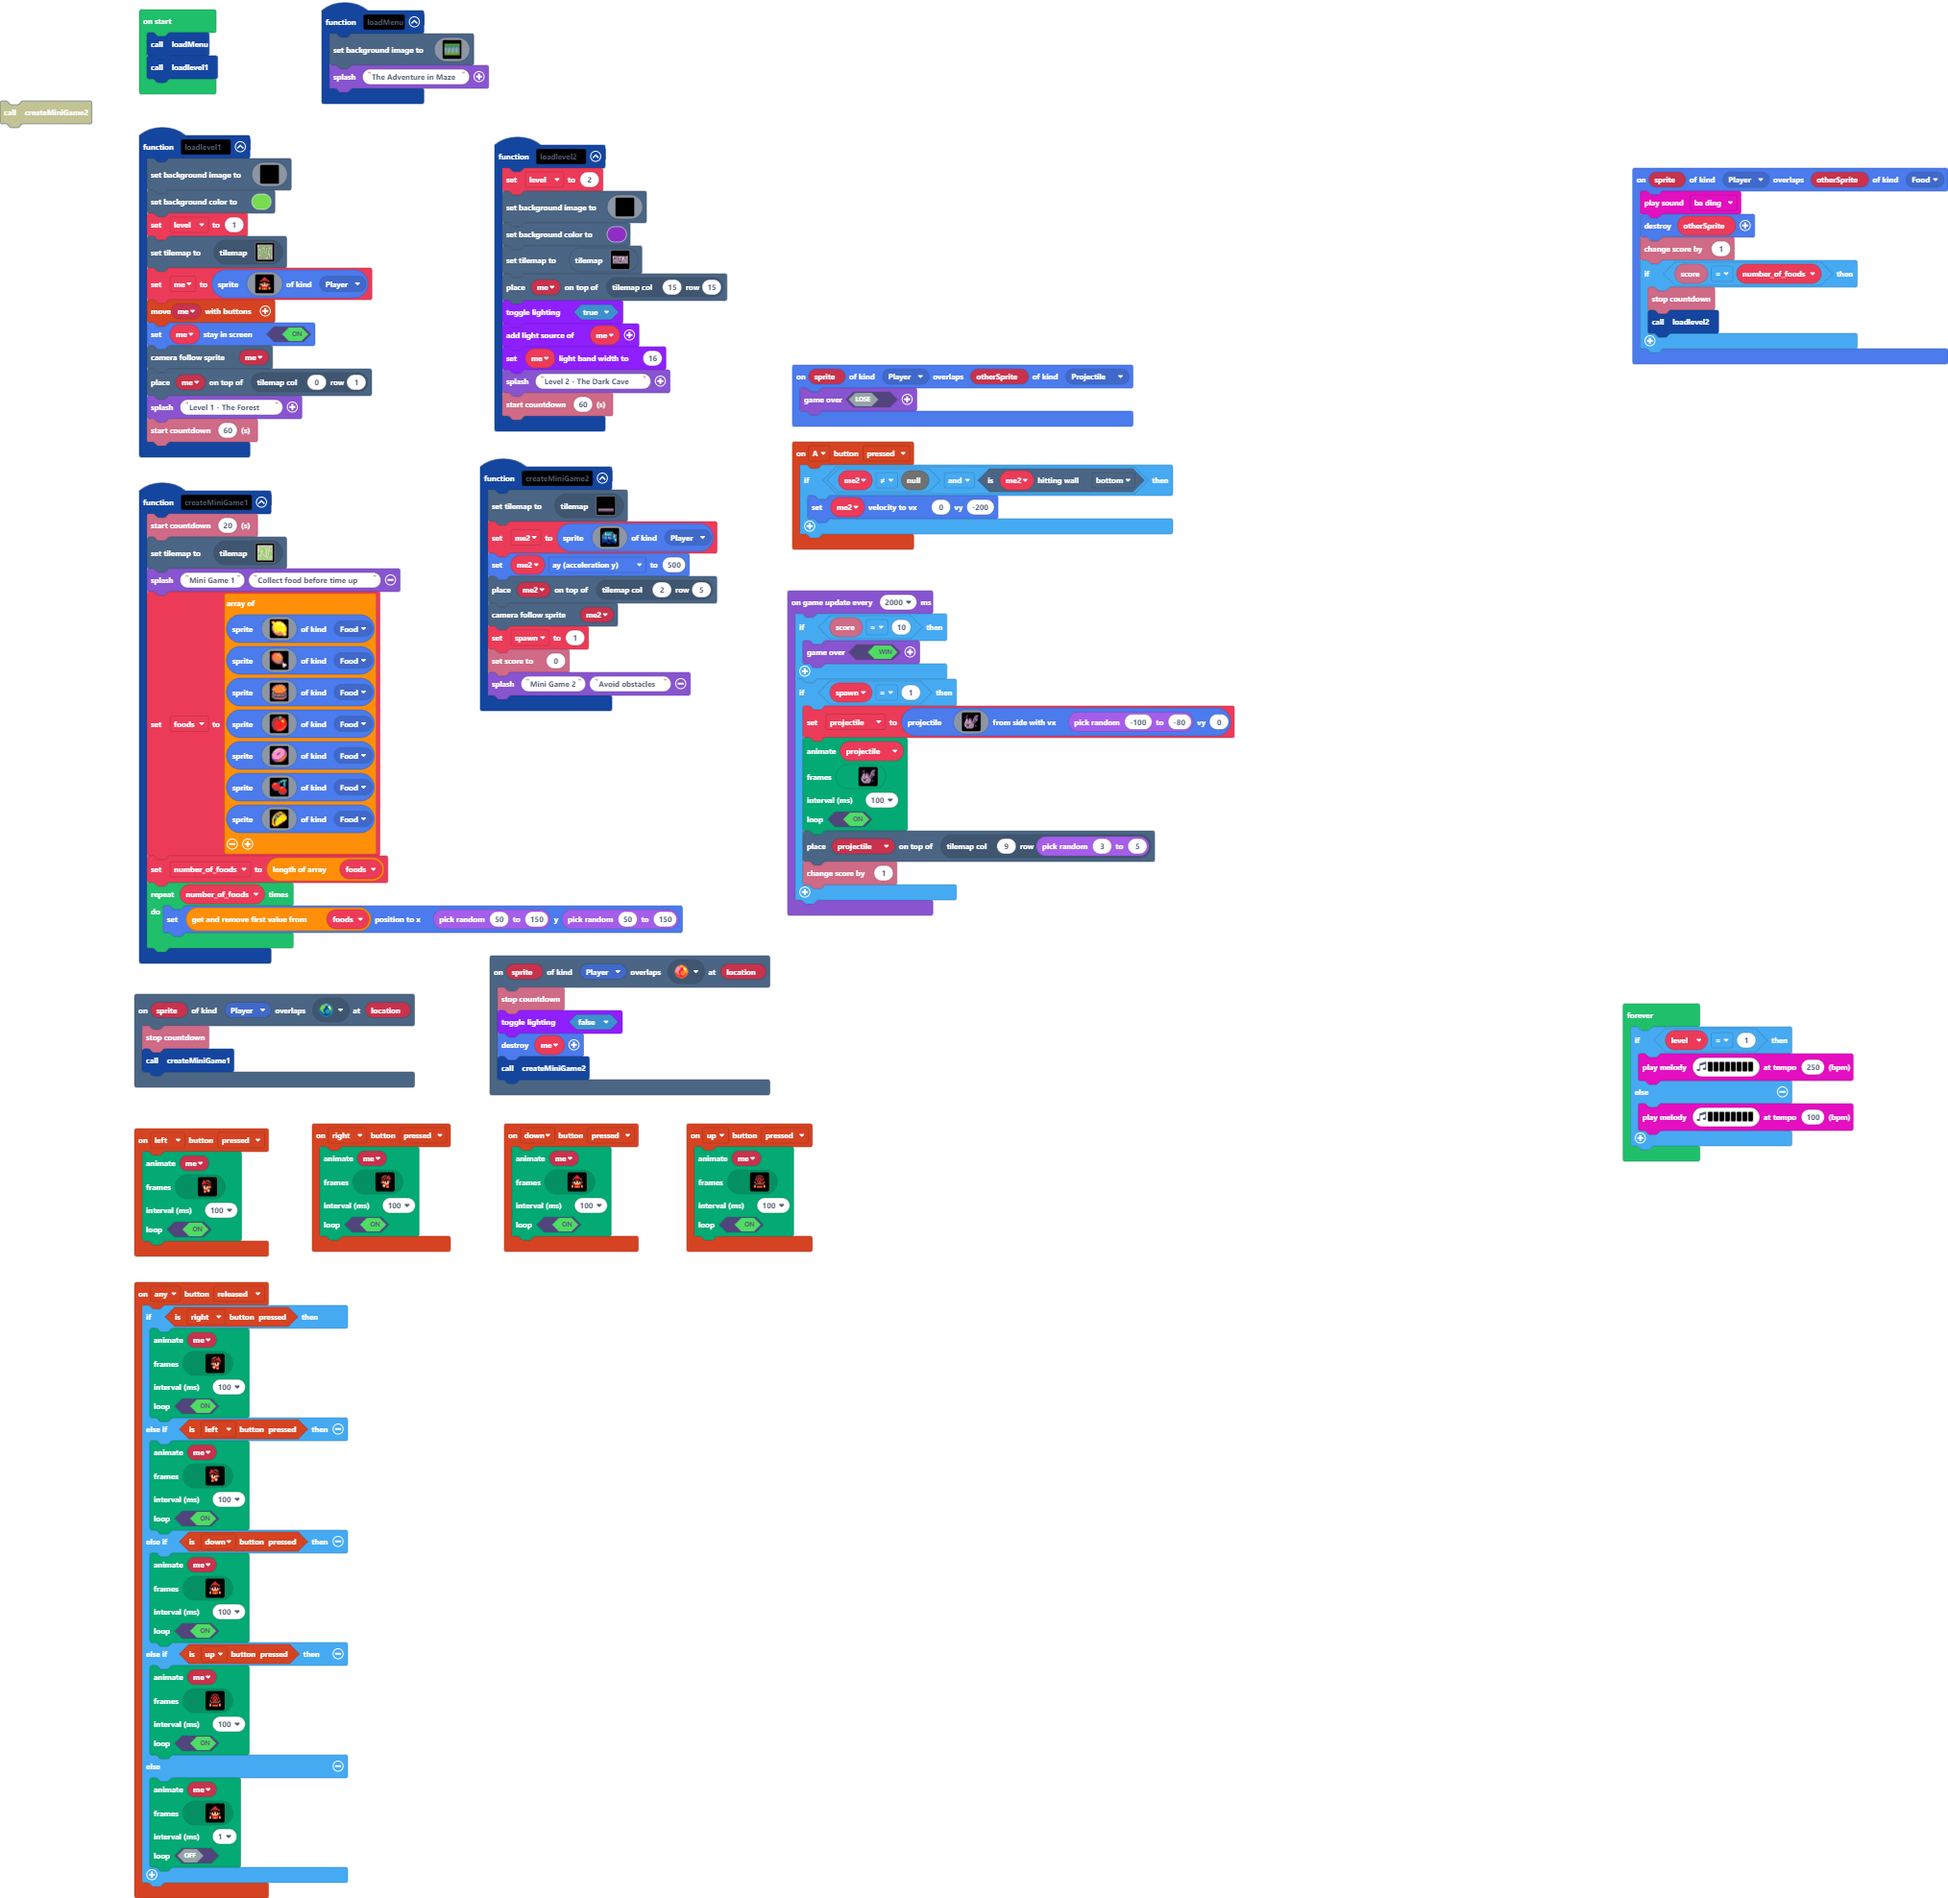
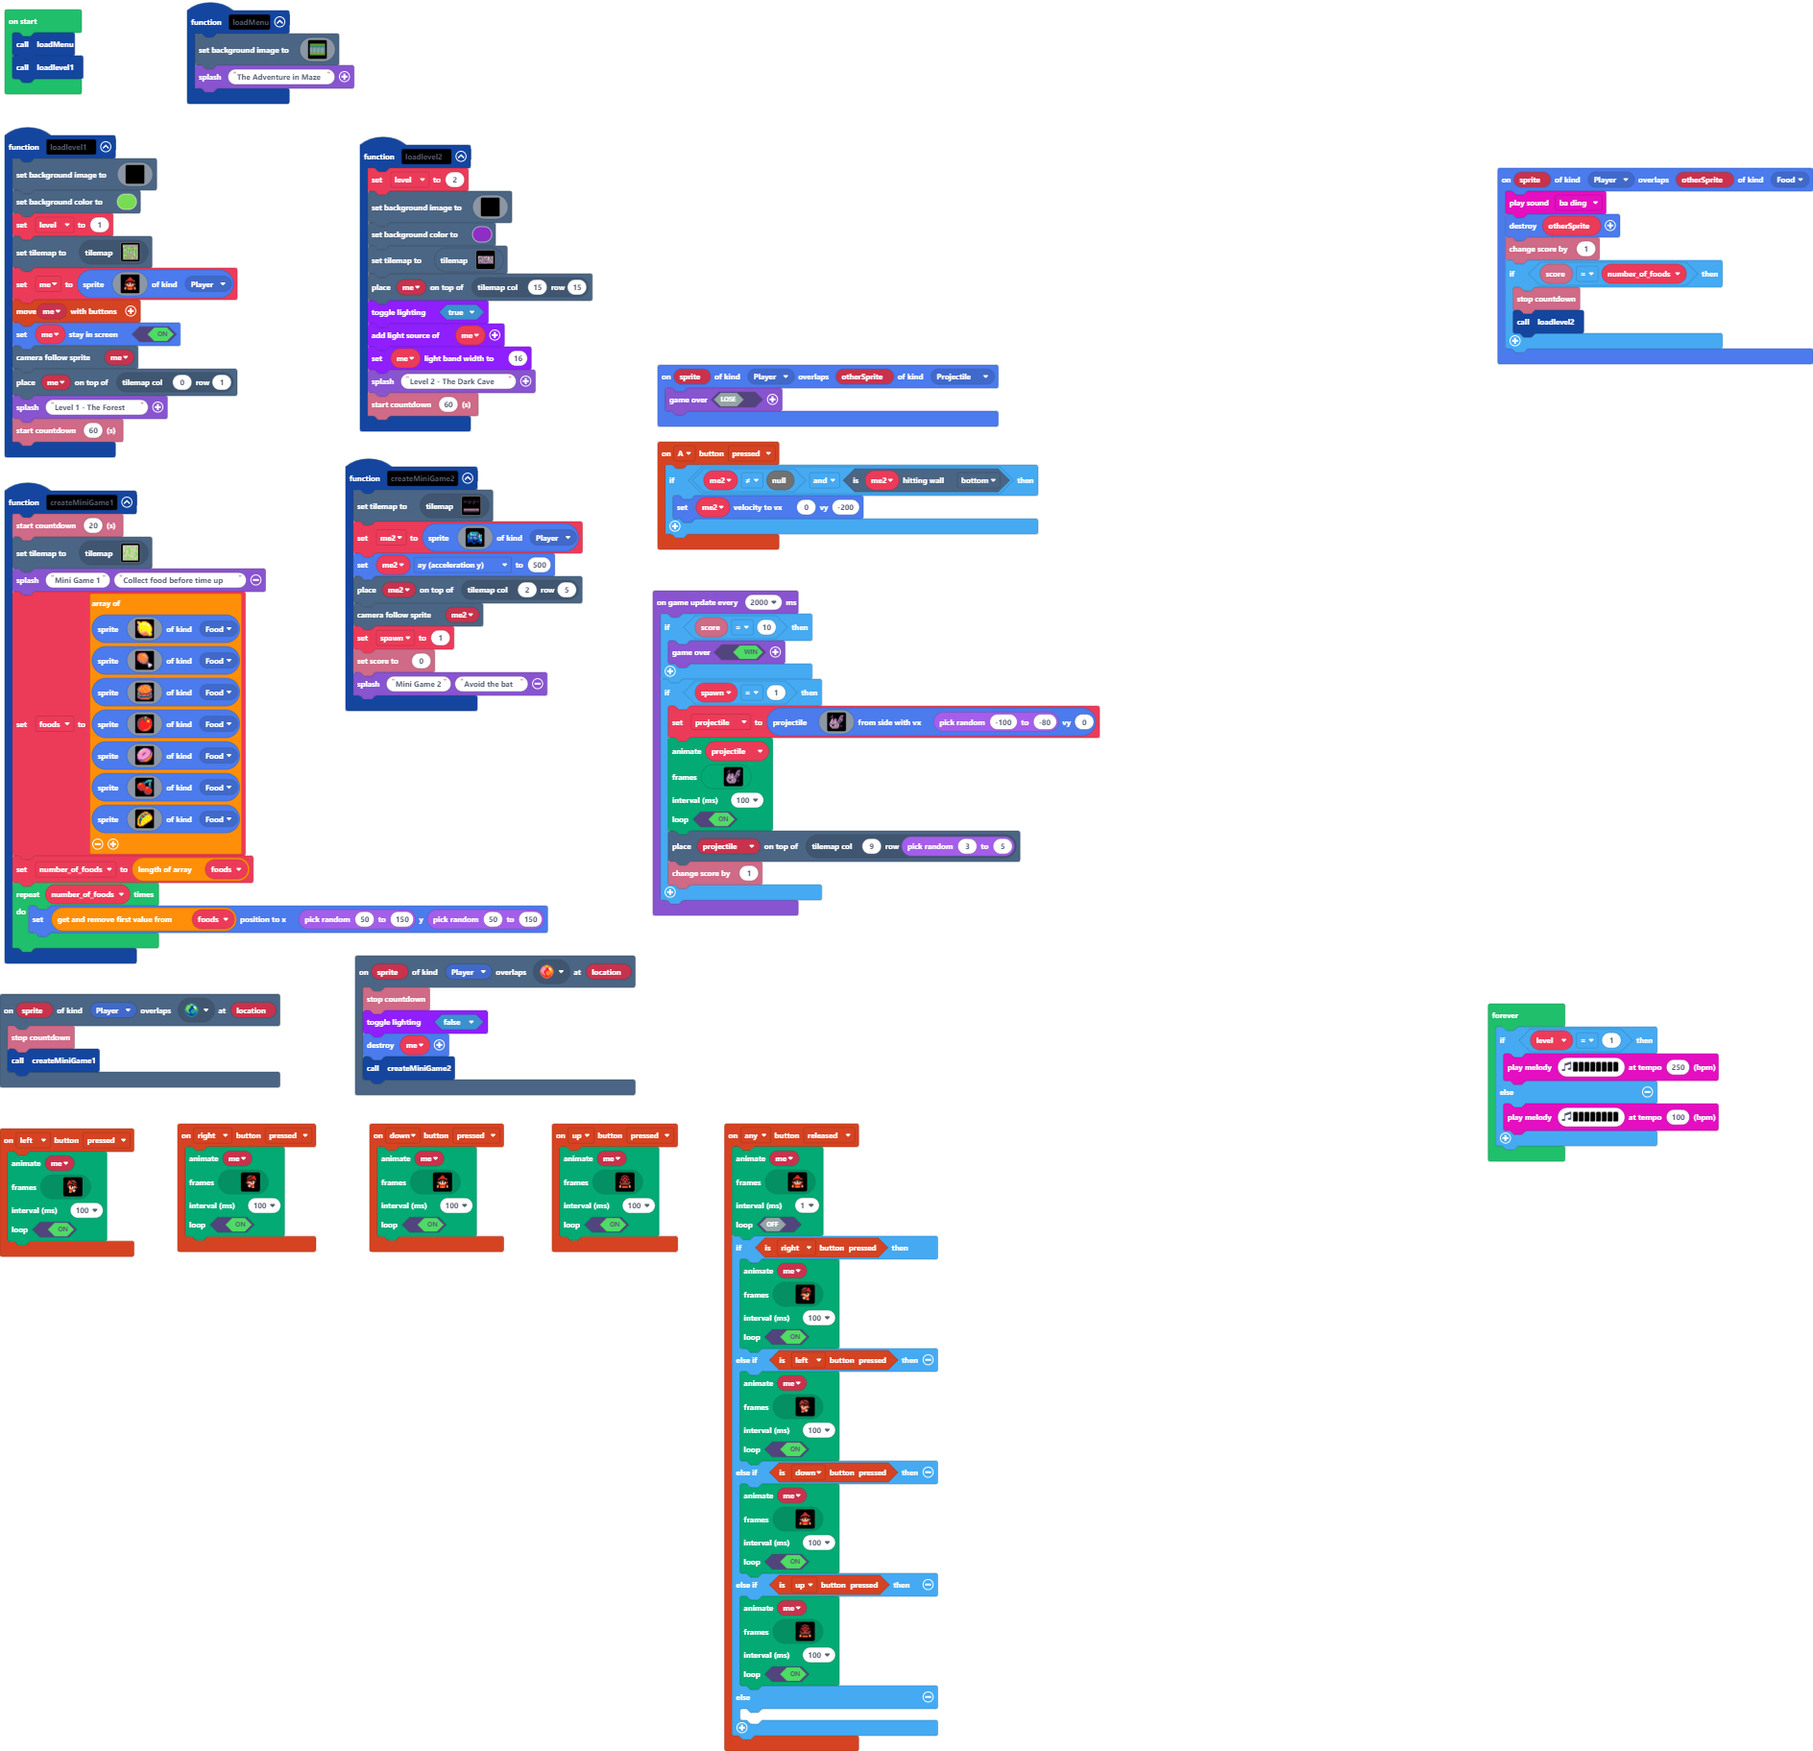
Update

Changed region(s): [[0.0, 0.0, 0.6562, 1.0], [0.8125, 0.0614, 1.0, 0.215], [0.8125, 0.5222, 0.9688, 0.6758]]

diff --git a/tilemap.g.ts b/tilemap.g.ts
@@ -3,6 +3,10 @@ namespace myTiles {
     //% fixedInstance jres blockIdentity=images._tile
     export const transparency16 = image.ofBuffer(hex``);
     //% fixedInstance jres blockIdentity=images._tile
+    export const tile2 = image.ofBuffer(hex``);
+    //% fixedInstance jres blockIdentity=images._tile
+    export const tile3 = image.ofBuffer(hex``);
+    //% fixedInstance jres blockIdentity=images._tile
     export const tile1 = image.ofBuffer(hex``);
 
     helpers._registerFactory("tilemap", function(name: string) {
@@ -45,25 +49,6 @@ namespace myTiles {
 . . . . . . . . . . . . . . . . 
 . . . . . . . . . . . . . . . . 
 `, [myTiles.transparency16], TileScale.Sixteen);
-            case "level1":
-            case "level1":return tiles.createTilemap(hex`1000100006080606080608060607060606070607020401010401010201050102010105060201080607080606070806080708080806010704010402040605080402020206060406060604040106020804010805070702020208040804060506070408010606040401060106040604070401060408070406040704060507050602060601060601060204020605020206040108010806050608070606080706070105070106070401040401010401010402020804060802050108060807060607060206010807020605050405050104050601080206080108060706060806080207040701060604010104070104010202060408020306060806060806070606060608060706`, img`
-2 2 2 2 2 2 2 2 2 2 2 2 2 2 2 2 
-. . . . . . . . . . . . . . . 2 
-. . 2 2 2 2 2 2 2 2 2 2 2 2 2 2 
-2 . 2 . . . . . 2 . 2 . . . . 2 
-2 . 2 2 2 . . . 2 . 2 . . 2 . 2 
-2 . . . 2 . 2 . 2 . 2 2 . 2 . 2 
-2 . . . 2 . 2 . 2 . 2 . . 2 . 2 
-2 . 2 . 2 . 2 . 2 . 2 . 2 2 . 2 
-2 . 2 . . . 2 . . . 2 . . 2 . 2 
-2 . 2 2 2 2 2 2 2 2 2 . . 2 . 2 
-2 . . . . . . . . . . . . 2 . 2 
-2 . . . 2 2 2 2 2 2 2 2 . 2 . 2 
-2 . 2 . . . . . . . . 2 . 2 . 2 
-2 . 2 2 2 2 2 2 2 2 . 2 . 2 . 2 
-2 . . . . 2 . . . . . 2 . 2 . . 
-2 2 2 2 2 2 2 2 2 2 2 2 2 2 2 2 
-`, [myTiles.transparency16,sprites.castle.tileGrass2,sprites.castle.tilePath5,sprites.dungeon.collectibleBlueCrystal,sprites.castle.tileGrass1,sprites.castle.tileGrass3,sprites.castle.rock0,sprites.castle.rock1,sprites.castle.rock2], TileScale.Sixteen);
             case "level2":
[1 lines of base64/hex data omitted]
 222222222222222.2222222222222222
@@ -83,17 +68,6 @@ namespace myTiles {
 2............22.2..............2
 222222222222222.2222222222222222
 `, [myTiles.transparency16,sprites.dungeon.darkGroundCenter,sprites.dungeon.collectibleRedCrystal,sprites.dungeon.collectibleInsignia,sprites.dungeon.darkGroundNorthWest1,sprites.dungeon.darkGroundNorthEast1,sprites.dungeon.floorLight0,sprites.dungeon.darkGroundSouthWest1,sprites.dungeon.floorLight1,sprites.dungeon.floorLight3,sprites.dungeon.floorLightMoss,sprites.dungeon.floorLight4,sprites.dungeon.floorLight5], TileScale.Sixteen);
-            case "puzzle2":
[1 lines of base64/hex data omitted]
-. . . . . . . . . . 
-. . . . . . . . . . 
-. . . . . . . . . . 
-. . . . . . . . . . 
-. . . . . . . . . . 
-. . . . . . . . . . 
-2 2 2 2 2 2 2 2 2 2 
-2 2 2 2 2 2 2 2 2 2 
-`, [myTiles.transparency16,sprites.builtin.oceanSand2,sprites.builtin.oceanSand9], TileScale.Sixteen);
             case "level5":
             case "level5":return tiles.createTilemap(hex`1000100000000000000000000000000000000000000000000000000000000000000000000000000000000000000000000000000000000000000000000000000000000000000000000000000000000000000000000000000000000000000000000000000000000000000000000000000000000000000000000000000000000000000000000000000000000000000000000000000000000000000000000000000000000000000000000000000000000000000000000000000000000000000000000000000000000000000000000000000000000000000000000000000000000000000000000000000000000000000000000000000000000000000000000000000000000000`, img`
 . . . . . . . . . . . . . . . . 
@@ -132,6 +106,36 @@ namespace myTiles {
 . . . . . . . . . . . . . . . . 
 . . . . . . . . . . . . . . . . 
 `, [myTiles.transparency16], TileScale.Sixteen);
+            case "level1":
+            case "level1":return tiles.createTilemap(hex`1000100006080606080608060607080606070607020401010401010201050102010105060201080607080606070806080708080808010704010402040605070402020206060406060604040106020804010805070702020208040804060506080408010606040401060106040604070401060408080408040804060508050602080601060601060204020605020206040108010806050608070606080706070105070106070401040401010401010402020804060802050108060807060607080206010807020805050405050104050601080206080107060706060806080207040701060604010104070104010202060408020306060806060806070608060608060706`, img`
+2 2 2 2 2 2 2 2 2 2 2 2 2 2 2 2 
+. . . . . . . . . . . . . . . 2 
+. . 2 2 2 2 2 2 2 2 2 2 2 2 2 2 
+2 . 2 . . . . . 2 . 2 . . . . 2 
+2 . 2 2 2 . . . 2 . 2 . . 2 . 2 
+2 . . . 2 . 2 . 2 . 2 2 . 2 . 2 
+2 . . . 2 . 2 . 2 . 2 . . 2 . 2 
+2 . 2 . 2 . 2 . 2 . 2 . 2 2 . 2 
+2 . 2 . . . 2 . . . 2 . . 2 . 2 
+2 . 2 2 2 2 2 2 2 2 2 . . 2 . 2 
+2 . . . . . . . . . . . . 2 . 2 
+2 . . . 2 2 2 2 2 2 2 2 . 2 . 2 
+2 . 2 . . . . . . . . 2 . 2 . 2 
+2 . 2 2 2 2 2 2 2 2 . 2 . 2 . 2 
+2 . . . . 2 . . . . . 2 . 2 . . 
+2 2 2 2 2 2 2 2 2 2 2 2 2 2 2 2 
+`, [myTiles.transparency16,sprites.castle.tileGrass2,sprites.castle.tilePath5,sprites.dungeon.collectibleBlueCrystal,sprites.castle.tileGrass1,sprites.castle.tileGrass3,sprites.castle.rock0,sprites.castle.rock1,sprites.castle.rock2], TileScale.Sixteen);
+            case "puzzle2":
[1 lines of base64/hex data omitted]
+. . . . . . . . . . 
+. . . . . . . . . . 
+. . . . . . . . . . 
+. . . . . . . . . . 
+. . . . . . . . . . 
+. . . . . . . . . . 
+2 2 2 2 2 2 2 2 2 2 
+2 2 2 2 2 2 2 2 2 2 
+`, [myTiles.transparency16,sprites.builtin.oceanSand2,sprites.builtin.oceanSand9,sprites.builtin.forestTiles6,myTiles.tile1,myTiles.tile2,myTiles.tile3], TileScale.Sixteen);
         }
         return null;
     })
@@ -139,6 +143,10 @@ namespace myTiles {
     helpers._registerFactory("tile", function(name: string) {
         switch(helpers.stringTrim(name)) {
             case "transparency16":return transparency16;
+            case "myTile0":
+            case "tile2":return tile2;
+            case "myTile1":
+            case "tile3":return tile3;
             case "myTile":
             case "tile1":return tile1;
         }

diff --git a/main.ts b/main.ts
@@ -240,7 +240,7 @@ function createMiniGame2 () {
     scene.cameraFollowSprite(me2)
     spawn = 1
     info.setScore(0)
-    game.splash("Mini Game 2", "Avoid obstacles")
+    game.splash("Mini Game 2", "Avoid the bat")
 }
 controller.A.onEvent(ControllerButtonEvent.Pressed, function () {
     if (me2 != null && me2.isHittingTile(CollisionDirection.Bottom)) {
@@ -248,6 +248,29 @@ controller.A.onEvent(ControllerButtonEvent.Pressed, function () {
     }
 })
 controller.anyButton.onEvent(ControllerButtonEvent.Released, function () {
+    animation.runImageAnimation(
+    me,
+    [img`
+        . . . . . . f f f f . . . . . . 
+        . . . . f f f 2 2 f f f . . . . 
+        . . . f f f 2 2 2 2 f f f . . . 
+        . . f f f e e e e e e f f f . . 
+        . . f f e 2 2 2 2 2 2 e e f . . 
+        . . f e 2 f f f f f f 2 e f . . 
+        . . f f f f e e e e f f f f . . 
+        . f f e f b f 4 4 f b f e f f . 
+        . f e e 4 1 f d d f 1 4 e e f . 
+        . . f e e d d d d d d e e f . . 
+        . . . f e e 4 4 4 4 e e f . . . 
+        . . e 4 f 2 2 2 2 2 2 f 4 e . . 
+        . . 4 d f 2 2 2 2 2 2 f d 4 . . 
+        . . 4 4 f 4 4 5 5 4 4 f 4 4 . . 
+        . . . . . f f f f f f . . . . . 
+        . . . . . f f . . f f . . . . . 
+        `],
+    1,
+    false
+    )
     if (controller.right.isPressed()) {
         animation.runImageAnimation(
         me,
@@ -549,80 +572,7 @@ controller.anyButton.onEvent(ControllerButtonEvent.Released, function () {
         true
         )
     } else {
-        animation.runImageAnimation(
-        me,
-        [img`
-            . . . . . . f f f f . . . . . . 
-            . . . . f f f 2 2 f f f . . . . 
-            . . . f f f 2 2 2 2 f f f . . . 
-            . . f f f e e e e e e f f f . . 
-            . . f f e 2 2 2 2 2 2 e e f . . 
-            . . f e 2 f f f f f f 2 e f . . 
-            . . f f f f e e e e f f f f . . 
-            . f f e f b f 4 4 f b f e f f . 
-            . f e e 4 1 f d d f 1 4 e e f . 
-            . . f e e d d d d d d e e f . . 
-            . . . f e e 4 4 4 4 e e f . . . 
-            . . e 4 f 2 2 2 2 2 2 f 4 e . . 
-            . . 4 d f 2 2 2 2 2 2 f d 4 . . 
-            . . 4 4 f 4 4 5 5 4 4 f 4 4 . . 
-            . . . . . f f f f f f . . . . . 
-            . . . . . f f . . f f . . . . . 
-            `,img`
-            . . . . . . . . . . . . . . . . 
-            . . . . . . f f f f . . . . . . 
-            . . . . f f f 2 2 f f f . . . . 
-            . . . f f f 2 2 2 2 f f f . . . 
-            . . f f f e e e e e e f f f . . 
-            . . f f e 2 2 2 2 2 2 e e f . . 
-            . f f e 2 f f f f f f 2 e f f . 
-            . f f f f f e e e e f f f f f . 
-            . . f e f b f 4 4 f b f e f . . 
-            . . f e 4 1 f d d f 1 4 e f . . 
-            . . . f e 4 d d d d 4 e f e . . 
-            . . f e f 2 2 2 2 e d d 4 e . . 
-            . . e 4 f 2 2 2 2 e d d e . . . 
-            . . . . f 4 4 5 5 f e e . . . . 
-            . . . . f f f f f f f . . . . . 
-            . . . . f f f . . . . . . . . . 
-            `,img`
-            . . . . . . f f f f . . . . . . 
-            . . . . f f f 2 2 f f f . . . . 
-            . . . f f f 2 2 2 2 f f f . . . 
-            . . f f f e e e e e e f f f . . 
-            . . f f e 2 2 2 2 2 2 e e f . . 
-            . . f e 2 f f f f f f 2 e f . . 
-            . . f f f f e e e e f f f f . . 
-            . f f e f b f 4 4 f b f e f f . 
-            . f e e 4 1 f d d f 1 4 e e f . 
-            . . f e e d d d d d d e e f . . 
-            . . . f e e 4 4 4 4 e e f . . . 
-            . . e 4 f 2 2 2 2 2 2 f 4 e . . 
-            . . 4 d f 2 2 2 2 2 2 f d 4 . . 
-            . . 4 4 f 4 4 5 5 4 4 f 4 4 . . 
-            . . . . . f f f f f f . . . . . 
-            . . . . . f f . . f f . . . . . 
-            `,img`
-            . . . . . . . . . . . . . . . . 
-            . . . . . . f f f f . . . . . . 
-            . . . . f f f 2 2 f f f . . . . 
-            . . . f f f 2 2 2 2 f f f . . . 
-            . . f f f e e e e e e f f f . . 
-            . . f e e 2 2 2 2 2 2 e f f . . 
-            . f f e 2 f f f f f f 2 e f f . 
-            . f f f f f e e e e f f f f f . 
-            . . f e f b f 4 4 f b f e f . . 
-            . . f e 4 1 f d d f 1 4 e f . . 
-            . . e f e 4 d d d d 4 e f . . . 
-            . . e 4 d d e 2 2 2 2 f e f . . 
-            . . . e d d e 2 2 2 2 f 4 e . . 
-            . . . . e e f 5 5 4 4 f . . . . 
-            . . . . . f f f f f f f . . . . 
-            . . . . . . . . . f f f . . . . 
-            `],
-        1,
-        false
-        )
+    	
     }
 })
 controller.left.onEvent(ControllerButtonEvent.Pressed, function () {
